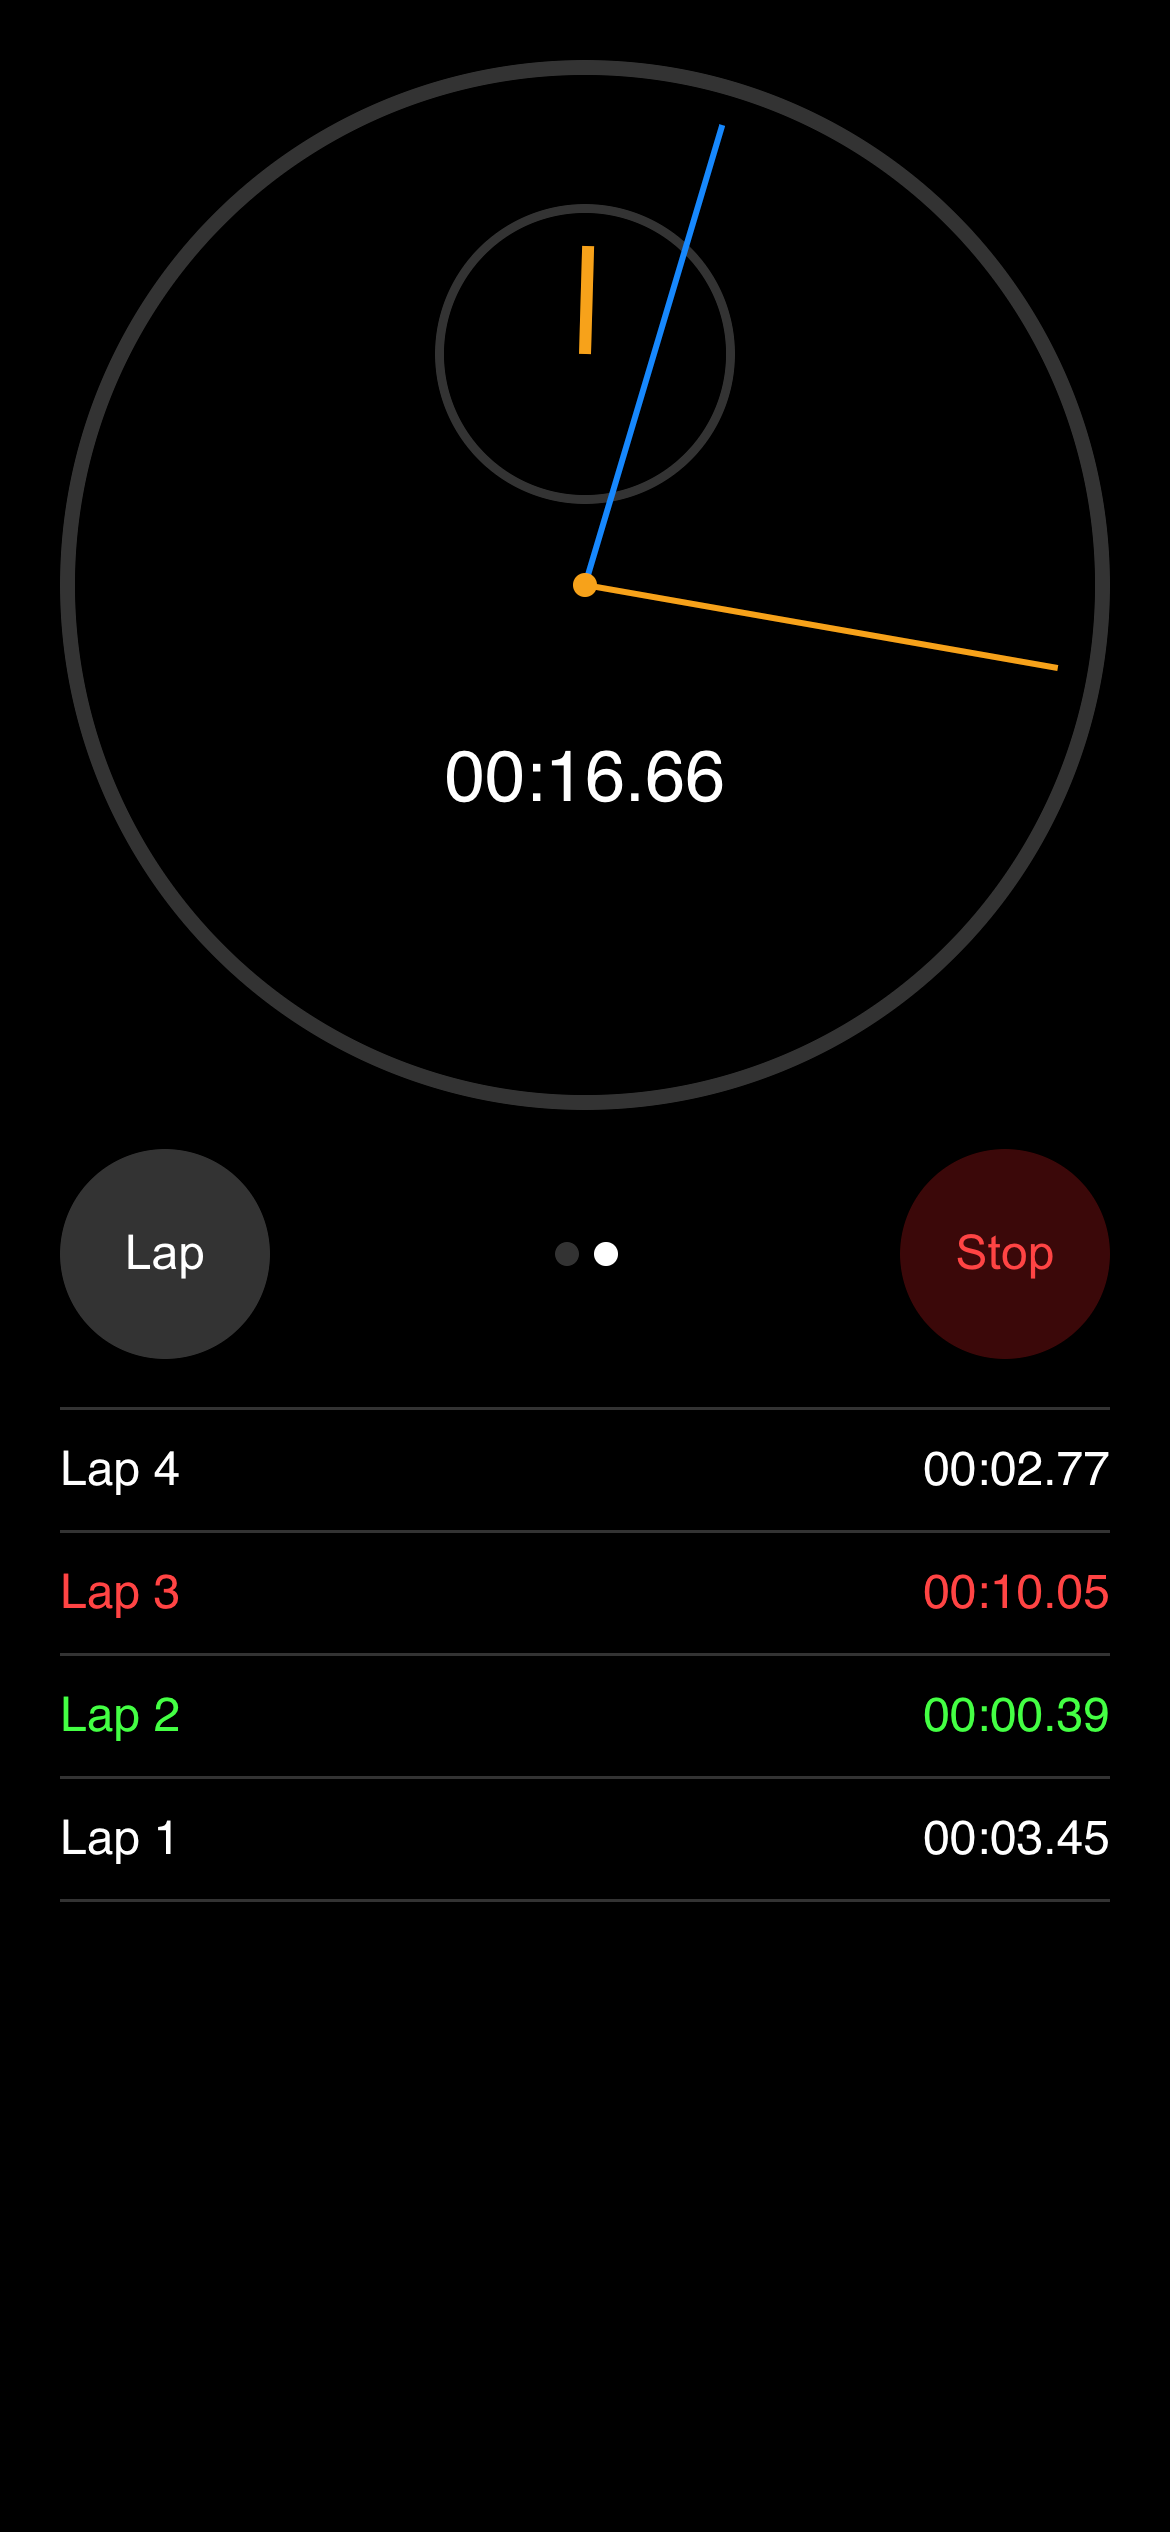
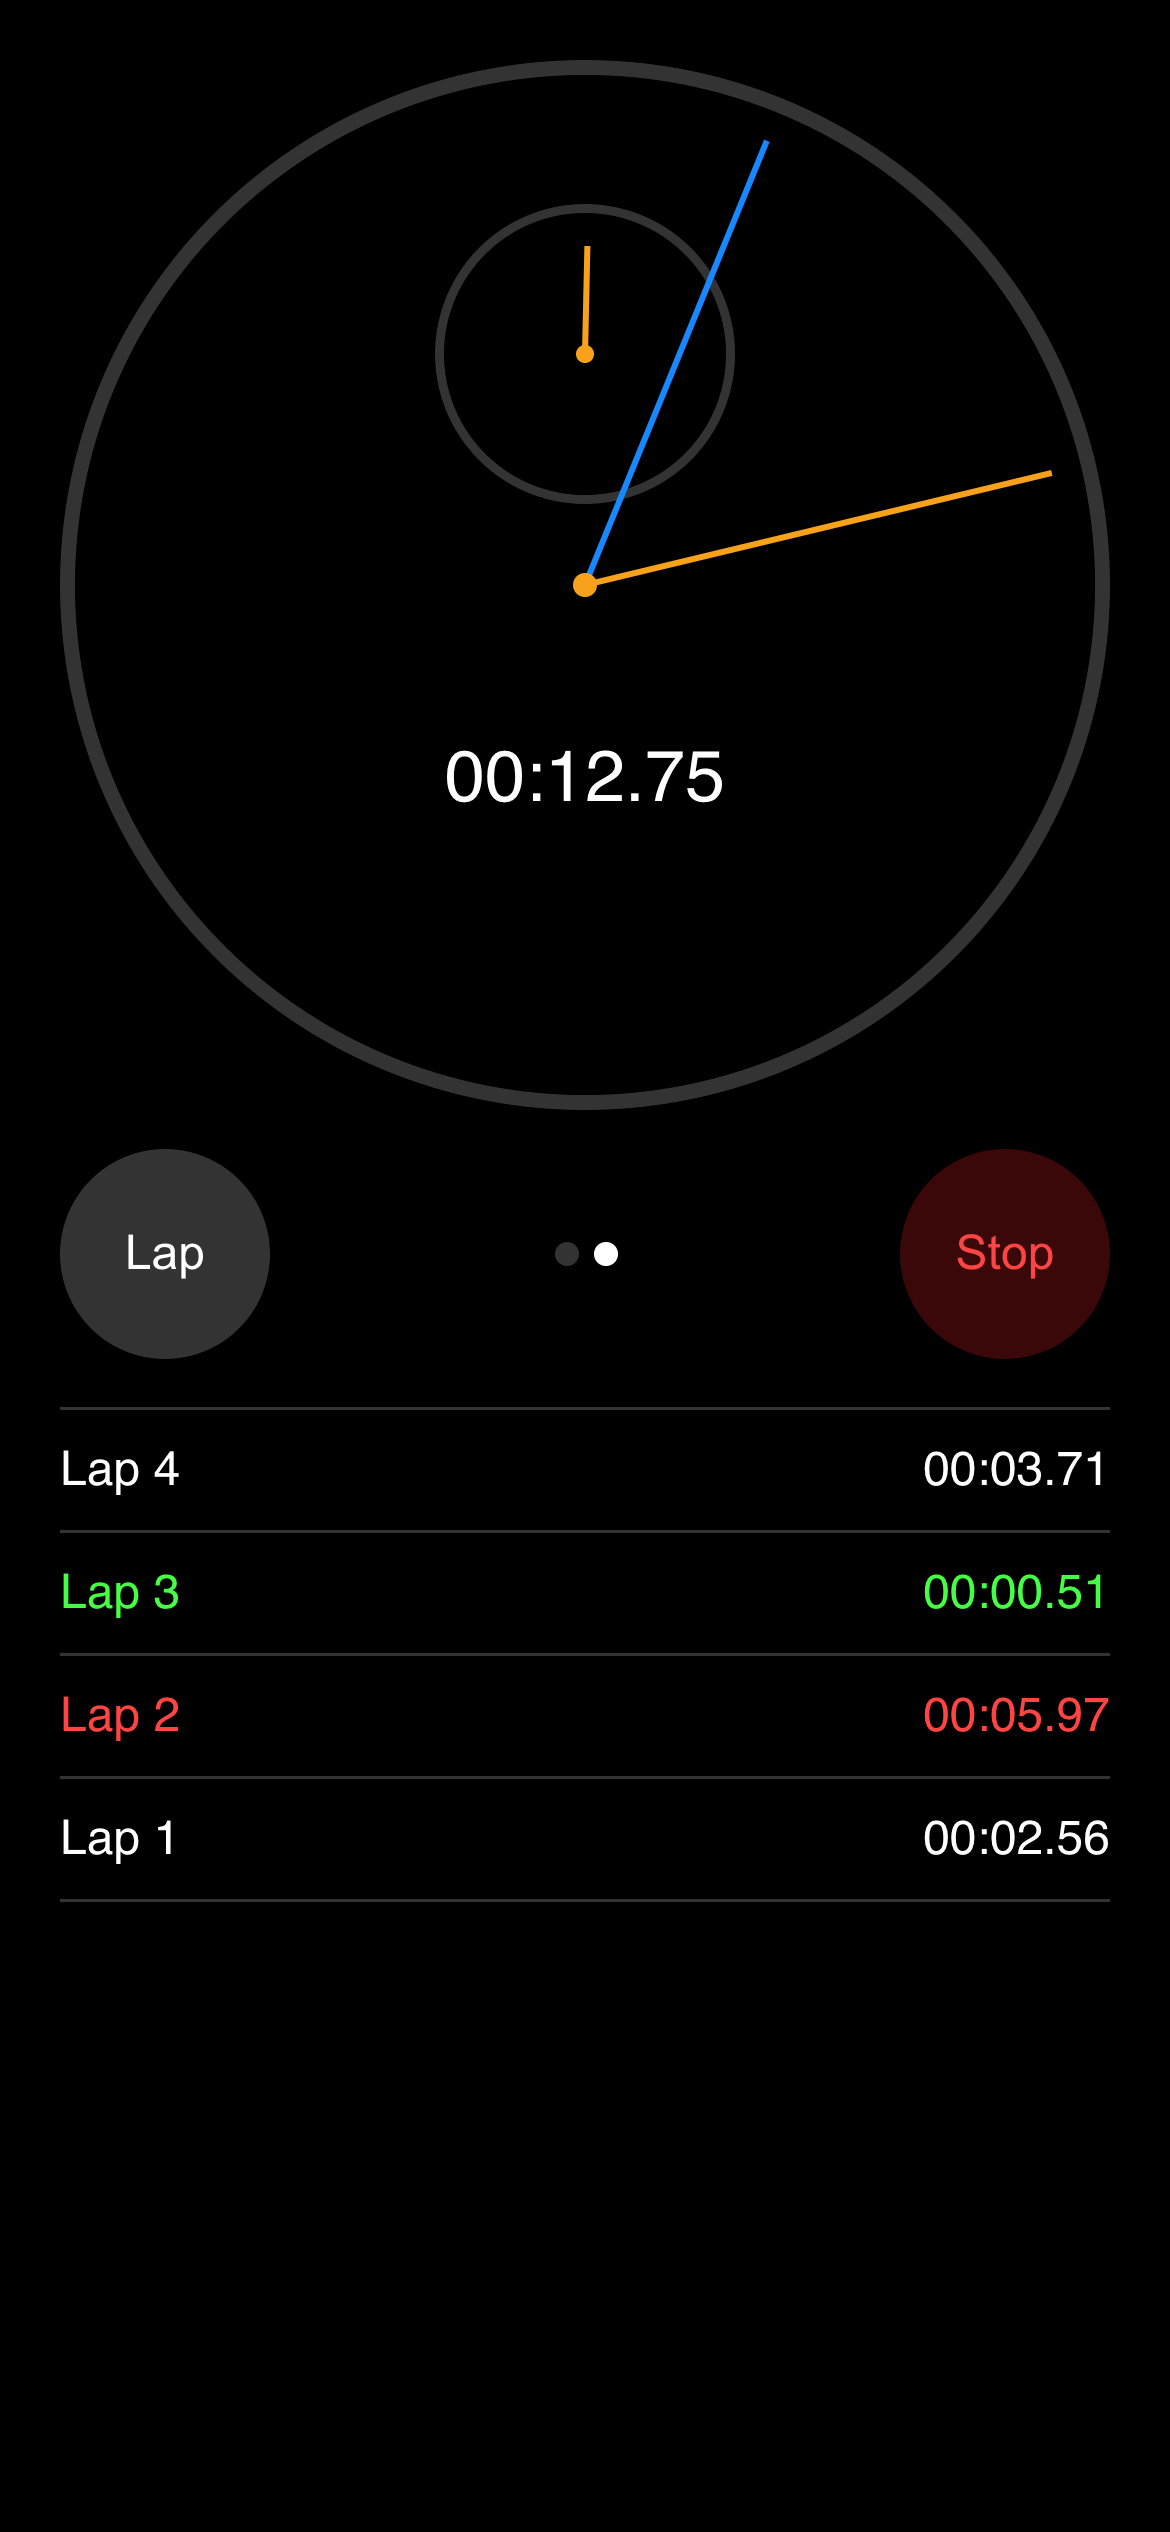
Style updates for analog, cleaner

diff --git a/stopwatch/src/components/AnalogClock/AnalogClock.tsx b/stopwatch/src/components/AnalogClock/AnalogClock.tsx
@@ -11,19 +11,19 @@ interface Props {
 const MinuteHand: React.FC<{ minutes: number; seconds: number; milliseconds: number }> = ({ minutes, seconds, milliseconds }) => {
   const totalMinutes = minutes + seconds / 60 + milliseconds / 60000;
   const degrees = (totalMinutes / 60) * 360;
-  return <Hand $degrees={degrees} width="4px" height="36px" color="#f7a21a" />;
+  return <Hand $degrees={degrees} height="36px" color="#f7a21a" />;
 };
 
 const SecondHand: React.FC<{ seconds: number; milliseconds: number }> = ({ seconds, milliseconds }) => {
   const totalSeconds = seconds + milliseconds / 1000;
   const degrees = (totalSeconds / 60) * 360; // Convert the total seconds into a degree value.
-  return <Hand $degrees={degrees} width="2px" height="160px" color="#f7a21a" />;
+  return <Hand $degrees={degrees} height="160px" color="#f7a21a" />;
 };
 
 const LapHand: React.FC<{ seconds: number; milliseconds: number }> = ({ seconds, milliseconds }) => {
   const totalSeconds = seconds + milliseconds / 1000;
   const degrees = (totalSeconds / 60) * 360; // Convert the total seconds into a degree value.
-  return <Hand $degrees={degrees} width="2px" height="160px" color="#1788fd" />;
+  return <Hand $degrees={degrees} height="160px" color="#1788fd" />;
 };
 
 const AnalogClock: React.FC<Props> = ({ elapsedTime, currentLap }) => {
@@ -48,6 +48,8 @@ const AnalogClock: React.FC<Props> = ({ elapsedTime, currentLap }) => {
 
         <MinuteClock>
           <MinuteHand minutes={minutes} seconds={seconds} milliseconds={milliseconds} />
+
+          <CenterDot size='6px' />
         </MinuteClock>
       </Wrapper>
   );
@@ -64,10 +66,10 @@ const InnerDigitalClock = styled.time`
   margin-top: 128px;
 `;
 
-const CenterDot = styled.div`
+const CenterDot = styled.div<{ size?: string }>`
   position: absolute;
-  width: 8px;
-  height: 8px;
+  width: ${props => props.size || '8px'};
+  height: ${props => props.size || '8px'};
   background-color: #f7a21a;
   border-radius: 50%;
   top: 50%;
@@ -117,7 +119,7 @@ const Hand = styled.div.attrs<{ $degrees: number }>(props => ({
   position: absolute;
   bottom: 50%;
   left: 50%;
-  width: ${props => props.width};
+  width: 2px;
   height: ${props => props.height};
   background-color: ${props => props.color};
   transform-origin: bottom;

diff --git a/stopwatch/README.md b/stopwatch/README.md
@@ -5,7 +5,13 @@ An imitation of the iOS native Stopwatch app in React + TypeScript.
 | ![Analog](src%2Fscreenshots%2Fanalog.png) | ![Digital](src%2Fscreenshots%2Fdigital.png) |
 |---------------------------|----------------------------|
 
+## Features
 
+- Analog and digital clock
+- Start, stop, and reset
+- Lap times
+- Best and worst lap times
+- Responsive design (mobile & touch first)
 
 ## Requirements
 
